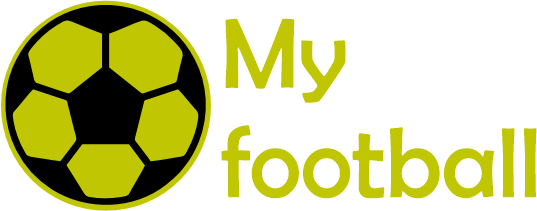
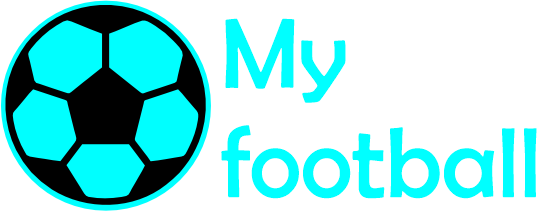
refactor: Header, main, FIFA

diff --git a/src/features/fifa/Fifa.module.css b/src/features/fifa/Fifa.module.css
@@ -1,15 +1,16 @@
 .wrapper {
   color: white;
   width: 100%;
-  height: 100vh;
+  height: 100%;
   position: relative;
+  background-image: url("./../../assets/background-fifa.png");
+  background-size: no-repeat;
+  background-position: center;
+  background-size: cover;
 }
 
 .wrapperContent {
-  position: absolute;
-  top: 80px;
-  left: 20px;
-  margin-right: 20px;
+  padding: 20px;
   display: flex;
   flex-direction: column;
   gap: 15px;
@@ -17,36 +18,44 @@
 
 
 .title {
-  margin: 40px 0 40px 0;
+  margin-top: 80px;
   padding: 20px;
-  font-size: 35px;
-  max-width: 550px;
+  font-size: 40px;
   width: 100%;
   line-height: 70px;
-  text-align: left;
-  color: #b2c3fe;
+  text-align: right;
+  color: rgb(255, 255, 255);
   text-transform: uppercase;
-  border: 1px solid grey;
-  border-radius: 50px 0;
-  box-shadow: 0 0 10px 5px rgba(200, 200, 200, 0.5);
-  background: rgba(0, 0, 0, 0.5);
+}
+
+.wrapperDescription {
+  max-width: 750px;
+  width: 100%;
+  padding: 10px;
+  border: 1px solid rgba(0, 255, 255, 0.5);
+  background-color: rgba(0, 0, 0, 0.5);
+  border-radius: 45px 0;
+  box-shadow: 0px 1px 2px 0px rgba(0,255,255,0.7),
+  1px 2px 4px 0px rgba(0,255,255,0.7),
+  2px 4px 8px 0px rgba(0,255,255,0.7),
+  2px 4px 16px 0px rgba(0,255,255,0.7);
 }
 
 .description {
   padding: 0 10px;
   font-size: 18px;
-  max-width: 600px;
-  width: 100%;
   line-height: 30px;
   font-style: italic;
+  margin-top: 30px;
 }
 
 .containerTournaments {
   padding: 20px;
-  color: #b2c3fe;
+  color: rgba(255,255,255,1);
   display: flex;
   align-items: center;
   flex-wrap: wrap;
+  
 }
 
 .tournaments {
@@ -60,29 +69,29 @@
   margin-left: 10px;
   padding: 10px;
   font-size: 20px;
-  color: yellow;
+  color: rgba(255,255,255,1);
   font-weight: 600;
   line-height: 30px;
-  background-color: #2f3209;
+  background-color: rgb(1, 72, 67);
   border-radius: 10px 0;
+  border: 1px solid rgba(0,255,255,0.7);
 }
 
 .cup:hover {
-  background-color: #575405;
+  background-color: rgb(6, 110, 102);
   border-radius: 10px 0;
-  box-shadow: 0px 0px 5px 5px rgba(249, 255, 90, 0.5);
   transition: all 0.5s;
+  box-shadow: 0px 1px 2px 0px rgba(0,255,255,0.7),
+              1px 2px 4px 0px rgba(0,255,255,0.7),
+              2px 4px 8px 0px rgba(0,255,255,0.7),
+              2px 4px 16px 0px rgba(0,255,255,0.7);
   } 
 
 .image {
-  width: 20px;
+  width: 50px;
   cursor: pointer;
   transition: all 0.5s;
 }
-
-.image:hover {
-  scale: 1.2;
-} 
 
 .link {
   display: flex;

diff --git a/src/features/fifa/Fifa.tsx b/src/features/fifa/Fifa.tsx
@@ -23,16 +23,17 @@ const description = infoAboutFifa.description.split('.')
 export const Fifa = () => {
   return (
     <div className={s.wrapper}>
-      <Background image={fifaImage}/>
       <div className={s.wrapperContent}>
         <h2 className={s.title}>{infoAboutFifa.title}</h2>
-        <p className={s.description}>{description[0]}</p>
-        <p className={s.description}>{description[1]}</p>
-        <p className={s.description}>{description[2]}</p>
-        <p className={s.description}>{description[3]}</p>
+        <div className={s.wrapperDescription}>
+          <p className={s.description}>{description[0]}</p>
+          <p className={s.description}>{description[1]}</p>
+          <p className={s.description}>{description[2]}</p>
+          <p className={s.description}>{description[3]}</p>
+        </div>
         <div className={s.containerTournaments}>
+          <img className={s.image} src={cupImage} alt="world cup image" />
           <NavLink to={'/fifa/world-cup'} className={s.link}>
-            <img className={s.image} src={cupImage} alt="world cup image" />
             <span className={s.cup}>{infoAboutFifa.cup.toUpperCase()}</span>
           </NavLink>
           <p className={s.tournaments}>{infoAboutFifa.tournaments}</p>

diff --git a/src/common/components/main/Main.tsx b/src/common/components/main/Main.tsx
@@ -1,7 +1,5 @@
 import s from './Main.module.css'
-import worldFootballImage from './../../../assets/football.png'
 import { FootballHistory } from './footballHistory/FootballHistory'
-import { Background } from '../background/Background'
 import { InfoFootball } from './infoFootball/InfoFootball'
 
 type MainType = {
@@ -12,7 +10,6 @@ type MainType = {
 export const Main = ({historyFootball, confederations} : MainType) => {
   return (
     <div className={s.container}>
-      <Background image={worldFootballImage}/>
       <div className={s.containerContent}>
         <InfoFootball confederations={confederations}/>
         <FootballHistory historyFootball={historyFootball}/>

diff --git a/src/common/components/header/menu/Menu.module.css b/src/common/components/header/menu/Menu.module.css
@@ -14,10 +14,16 @@
 }
 
 .item:hover {
-  background-color: #575405;
+  /* background-color: #575405; */
+  background-color: rgb(0, 114, 105);
+  border: 1px solid rgba(0,255,255,1);
   border-radius: 10px 0;
-  box-shadow: 0px 0px 5px 5px rgba(249, 255, 90, 0.5);
+  /* box-shadow: 0px 0px 5px 5px rgba(249, 255, 90, 0.5); */
   transition: all 0.5s;
+  box-shadow: 0px 1px 2px 0px rgba(0,255,255,0.7),
+              1px 2px 4px 0px rgba(0,255,255,0.7),
+              2px 4px 8px 0px rgba(0,255,255,0.7),
+              2px 4px 16px 0px rgba(0,255,255,0.7);
 }
 
 
@@ -28,7 +34,7 @@
 }
 
 .item a.active {
-  color: #C0C702;
+  color: rgba(0,255,255,1);
 }
 
 

diff --git a/src/app/App.tsx b/src/app/App.tsx
@@ -6,6 +6,7 @@ import { Fifa } from '../features/fifa/Fifa';
 import { WorldCup } from '../features/fifa/worldCup/WorldCup';
 import { Tournament } from '../features/fifa/worldCup/tournament/Tournament';
 import { useState } from 'react';
+import backgroundStart from './../assets/background-football.png'
 import background1930 from './../assets/background-world-cup-1930.png'
 import background1930_2 from './../assets/background-world-cup-1930-2.png'
 import logo1930 from './../assets/logo-world-cup/1930.png'

diff --git a/src/common/components/main/infoFootball/InfoFootball.module.css b/src/common/components/main/infoFootball/InfoFootball.module.css
@@ -12,7 +12,10 @@
   border: 1px solid grey;
   border-radius: 70px 0;
   background-color: rgba(11, 61, 27, 0.5);
-  box-shadow: 10px 10px 10px 5px black;
+  box-shadow: 0px 1px 2px 0px rgba(0,255,255,0.7),
+              1px 2px 4px 0px rgba(0,255,255,0.7),
+              2px 4px 8px 0px rgba(0,255,255,0.7),
+              2px 4px 16px 0px rgba(0,255,255,0.7);
 }
 
 .imageMap {

diff --git a/src/common/components/main/Main.module.css b/src/common/components/main/Main.module.css
@@ -3,6 +3,10 @@
   width: 100%;
   height: 100vh;
   color: white;
+  background-image: url("./../../../assets/background-football.png");
+  background-size: no-repeat;
+  background-position: center;
+  background-size: cover;
 }
 
 .containerContent {

diff --git a/src/common/components/header/Header.module.css b/src/common/components/header/Header.module.css
@@ -6,8 +6,10 @@
   align-items: center;
   padding: 10px 20px;
   background-color: rgba(1, 1, 1, 0.8);
+  box-shadow: 0px 5px 10px 0px rgba(0, 0, 0, 0.5);
   max-width: 1440px;
   width: 100%;
+
 }
 
 .menuButton {

diff --git a/src/common/components/main/footballHistory/FootballHistory.module.css b/src/common/components/main/footballHistory/FootballHistory.module.css
@@ -6,7 +6,7 @@
   font-weight: 600;
   display: inline-block;
   line-height: 1.8rem;
-  color: yellow;
+  color: rgba(0, 255, 255, 1);
 }
 
 .title {

diff --git a/src/features/fifa/worldCup/tournament/Tournament.module.css b/src/features/fifa/worldCup/tournament/Tournament.module.css
@@ -43,10 +43,3 @@
     margin-top: 60px;
   }
 }
-
-
-
-
-
-
-
